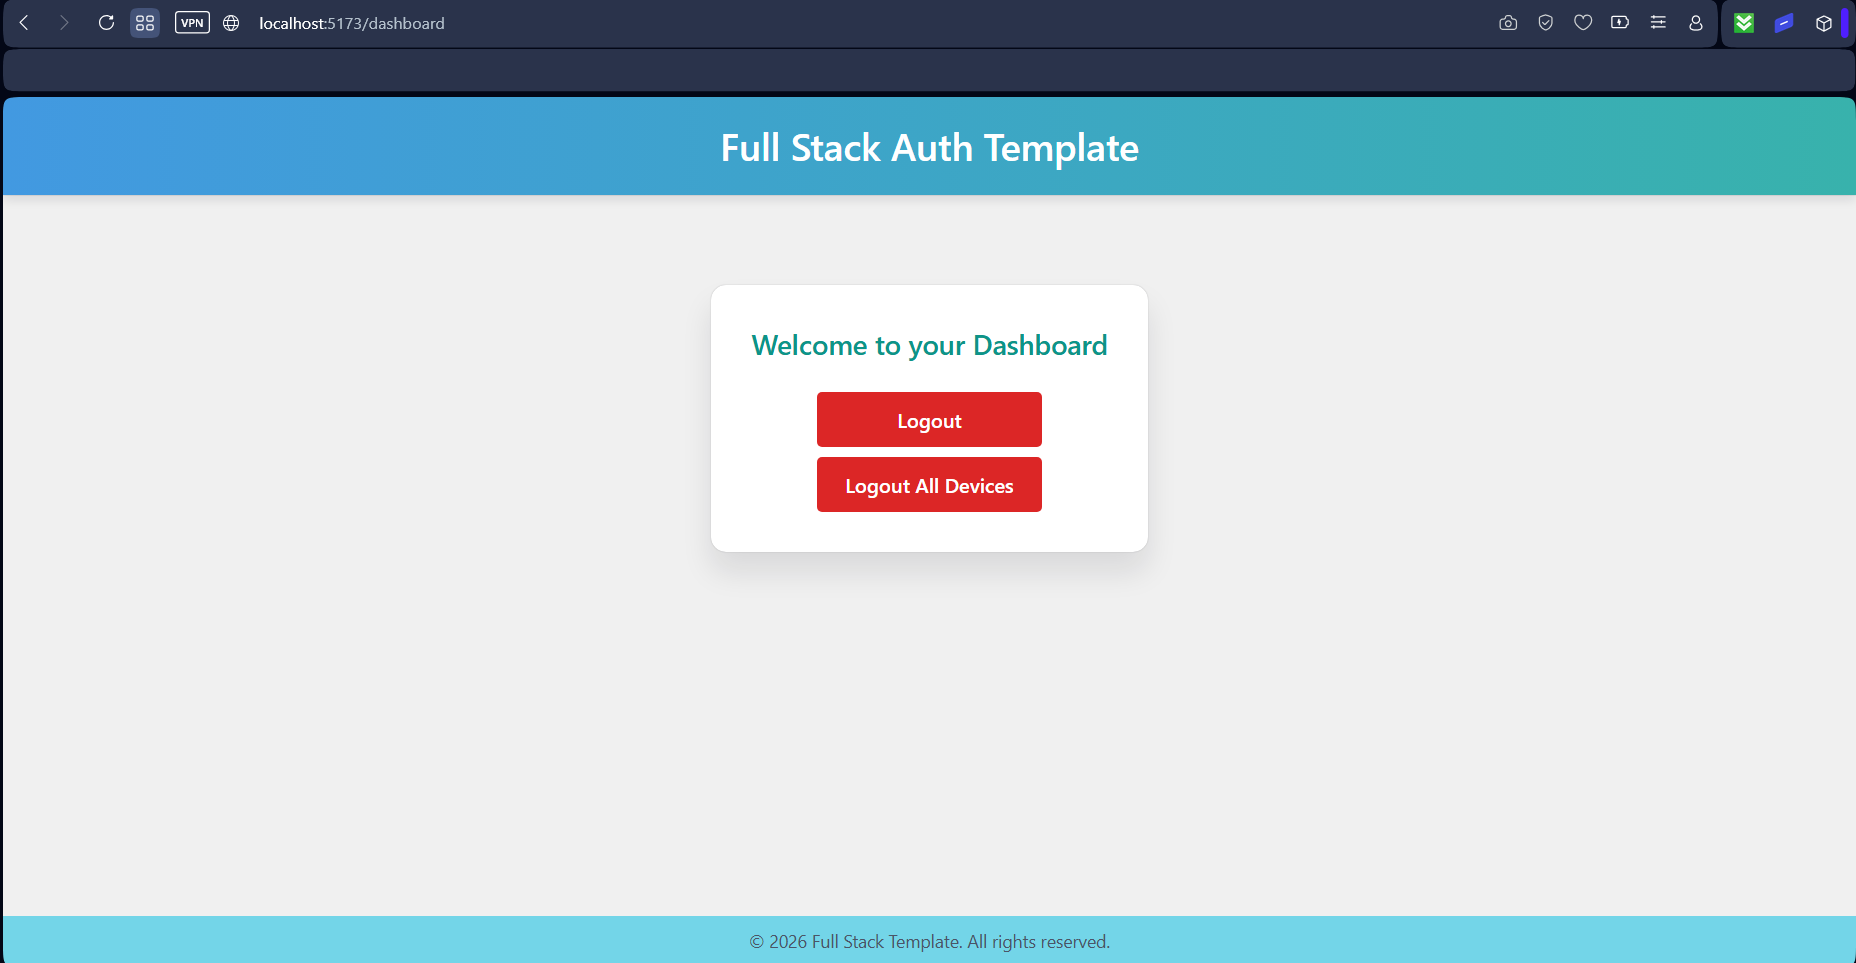
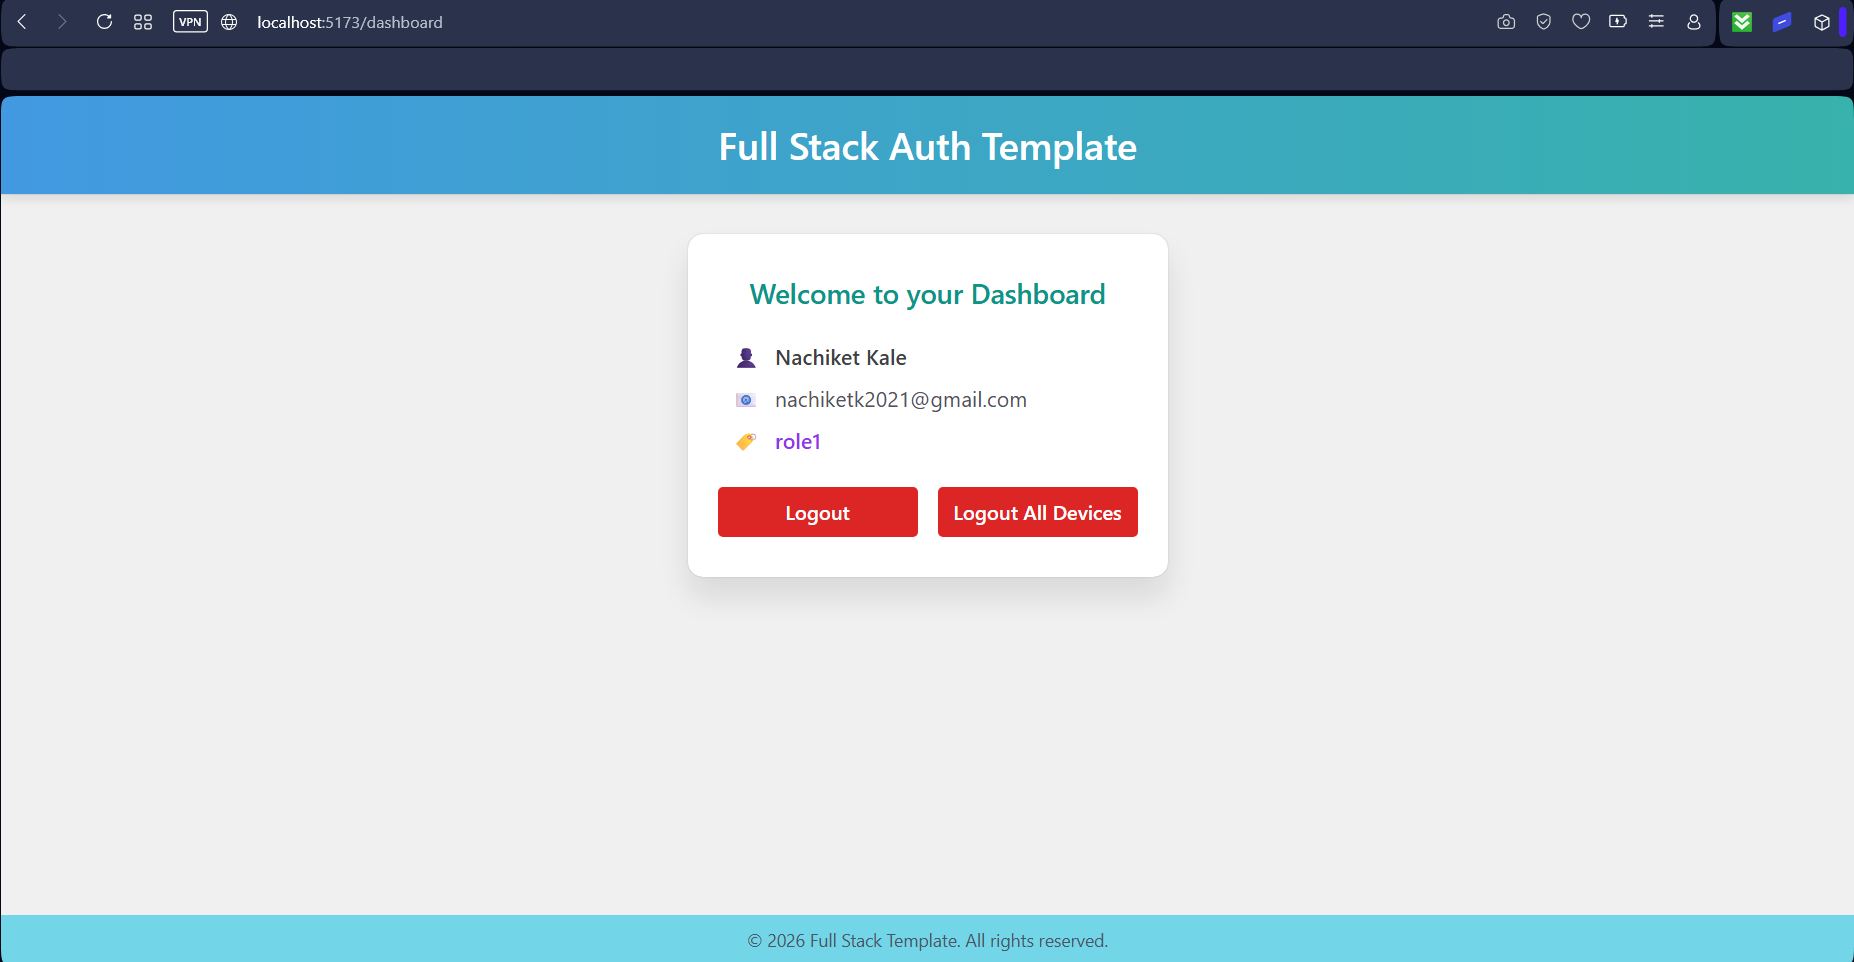
Dashboard page modified to show user details ;Sign up page updated

diff --git a/frontend/src/dashboard/DashboardPage.tsx b/frontend/src/dashboard/DashboardPage.tsx
@@ -1,79 +1,172 @@
 // ---------------------------- External Imports ----------------------------
-// Import React to use JSX/TSX syntax in component
-import React, { useEffect } from "react";
+// React core library and hooks for component lifecycle and state management
+import React, { useEffect, useState } from "react";
 
-// Import Redux hooks
+// Redux hook to dispatch actions to the store
 import { useDispatch } from "react-redux";
 
-// Import Chakra UI components for layout and styling
-import { Box, Heading, Stack, Container } from "@chakra-ui/react";
+// Chakra UI components for layout, styling, and responsive design
+import { Box, Heading, Stack, Container, Text, Spinner, Flex } from "@chakra-ui/react";
 
-// Import LogoutButton container components for single-device and all-device logout
+// ---------------------------- Internal Imports ----------------------------
+// Button component to log out current session
 import LogoutButton from "../auth/logout/LogoutButton";
+
+// Button component to log out all sessions
 import LogoutAllButton from "../auth/logout_all/LogoutAllButton";
 
-// Import actions to clear previous logout messages
+// Redux actions to clear logout states
 import { clearLogoutState } from "../auth/logout/logout_slice";
 import { clearLogoutAllState } from "../auth/logout_all/logout_all_slice";
+
+// API function to fetch current user details
+import { getCurrentUserApi } from "../api/auth_api";
 
 // ---------------------------- DashboardPage Component ----------------------------
 /**
  * DashboardPage
- * A Chakra UI-based user dashboard responsible for:
- * 1. Rendering a responsive centered container
- * 2. Displaying a welcome message
- * 3. Providing logout buttons for current and all sessions
+ * Displays the current user's information and logout options
+ * Methods:
+ *   1. useEffect hook to fetch current user on mount
+ *   2. Conditional rendering of user info, loading spinner, or error messages
  */
 const DashboardPage: React.FC = () => {
-    const dispatch = useDispatch();
+    // ---------------------------- Redux Dispatch ----------------------------
+    const dispatch = useDispatch(); // Step 1: Initialize Redux dispatch
+
+    // ---------------------------- Local State ----------------------------
+    const [user, setUser] = useState<{ name: string; email: string; role: string } | null>(null); 
+    // Step 2a: Store current user info
+    const [loading, setLoading] = useState<boolean>(true); 
+    // Step 2b: Loading indicator while fetching data
+    const [error, setError] = useState<string | null>(null); 
+    // Step 2c: Error message if fetching fails
 
     // ---------------------------- Effects ----------------------------
-    // Clear old logout messages when dashboard mounts
+    /**
+     * useEffect
+     * Input: None
+     * Process:
+     *   1. Clear any previous logout states in Redux
+     *   2. Define async function to fetch user info
+     *       2a. Call API to get current user
+     *       2b. If successful, store user data in state
+     *       2c. If unsuccessful, set error message
+     *       2d. Stop loading after API call
+     *   3. Invoke fetch function
+     * Output: Updates local state with user info or error
+     */
     useEffect(() => {
+        // Step 1: Clear Redux logout states
         dispatch(clearLogoutState());
         dispatch(clearLogoutAllState());
-    }, [dispatch]);
 
-    // Background color
-    const cardBg = "white";
-    const textColor = "gray.700";
+        // Step 2: Async function to fetch user info
+        const fetchUser = async () => {
+            try {
+                // Step 2a: Call API
+                const res = await getCurrentUserApi("Dashboard");
+
+                // Step 2b: If successful, update user state
+                if (res.status === 200 && res.data) {
+                    setUser(res.data);
+                } else {
+                    // Step 2c: If API response not 200, set error
+                    setError("Unable to fetch user details");
+                }
+            } catch (err: any) {
+                // Step 2c: Catch network or API errors
+                setError("Failed to load user details");
+            } finally {
+                // Step 2d: Stop loading indicator
+                setLoading(false);
+            }
+        };
+
+        // Step 3: Call async fetch function
+        fetchUser();
+    }, [dispatch]);
 
     // ---------------------------- Render ----------------------------
     /**
-     * Input: None
+     * Render
+     * Input: Local state (user, loading, error)
      * Process:
-     *   1. Create a centered Chakra Container
-     *   2. Use a Box as a card with padding, rounded corners, and shadow
-     *   3. Display heading text
-     *   4. Render LogoutButton and LogoutAllButton components
-     * Output: Chakra-styled JSX.Element representing the dashboard
+     *   1. Display container with white background and rounded shadow
+     *   2. Show heading for dashboard
+     *   3. Conditionally render:
+     *       3a. Spinner if loading
+     *       3b. Error message if error exists
+     *       3c. User info (name, email, role) if available
+     *       3d. Default message if no user data
+     *   4. Logout buttons in one line
+     * Output: Fully styled dashboard UI
      */
     return (
-        <Container maxW="md" py={10}>
-            {/* Step 1: Dashboard card */}
+        <Container maxW="md"> {/* Step 1: Center container */}
             <Box
-                bg={cardBg}                          // Dynamic background
-                color={textColor}                    // Text color for readability
-                p={8}                                // Inner padding
-                rounded="xl"                         // Rounded corners
-                shadow="xl"                          // Elevation shadow
-                textAlign="center"                   // Center content alignment
+                bg="white"          // Step 1a: Background color
+                color="gray.700"    // Step 1b: Text color
+                p={8}               // Step 1c: Padding
+                rounded="xl"        // Step 1d: Rounded corners
+                shadow="xl"         // Step 1e: Shadow
+                textAlign="center"  // Step 1f: Center text
             >
-                {/* Step 2: Welcome message */}
-                <Heading as="h1" fontSize="22px" mb={6} color="teal.600" >
-                    Welcome to your Dashboard
+                <Heading as="h1" fontSize="22px" mb={6} color="teal.600">
+                    Welcome to your Dashboard {/* Step 2: Heading */}
                 </Heading>
 
-                {/* Step 3: Stack for spacing between buttons */}
-                <Stack>
-                    <LogoutButton />       {/* Logout current device */}
-                    <LogoutAllButton />    {/* Logout all devices */}
-                </Stack>
+                {/* ---------------- User Info ---------------- */}
+                {loading ? (
+                    <Spinner size="lg" color="teal.500" /> // Step 3a: Show spinner while loading
+                ) : error ? (
+                    <Text color="red.500" mb={6}>{error}</Text> // Step 3b: Show error message
+                ) : user ? (
+                    <Stack mb={6} align="flex-start"> {/* Step 3c: Display user info aligned left */}
+                        {/* Name */}
+                        <Flex align="center" justify="flex-start">
+                            <Box w="30px" textAlign="center" mr={2} color="teal.600"> {/* Fixed icon width */}
+                                👤
+                            </Box>
+                            <Text fontSize="17px" fontWeight="semibold">
+                                {user.name}
+                            </Text>
+                        </Flex>
+
+                        {/* Email */}
+                        <Flex align="center" justify="flex-start">
+                            <Box w="30px" textAlign="center" mr={2} color="blue.500"> {/* Fixed icon width */}
+                                📧
+                            </Box>
+                            <Text fontSize="17px" color="gray.600">
+                                {user.email}
+                            </Text>
+                        </Flex>
+
+                        {/* Role */}
+                        <Flex align="center" justify="flex-start">
+                            <Box w="30px" textAlign="center" mr={2} color="purple.500"> {/* Fixed icon width */}
+                                🏷
+                            </Box>
+                            <Text fontSize="17px" color="purple.600" fontWeight="medium">
+                                {user.role}
+                            </Text>
+                        </Flex>
+                    </Stack>
+                ) : (
+                    <Text color="gray.500" mb={6}>No user data available</Text> // Step 3d: Default message
+                )}
+
+                {/* ---------------- Logout Buttons ---------------- */}
+                <Flex justify="center" gap={4}> {/* Step 4: Logout buttons in one line */}
+                    <LogoutButton />
+                    <LogoutAllButton />
+                </Flex>
             </Box>
         </Container>
     );
 };
 
 // ---------------------------- Export ----------------------------
-// Export DashboardPage component as default for routing
+// Export DashboardPage component as default for route rendering
 export default DashboardPage;

diff --git a/frontend/src/auth/signup/SignupForm.tsx b/frontend/src/auth/signup/SignupForm.tsx
@@ -207,15 +207,46 @@ const SignupForm: React.FC = () => {
             {successMessage && <Text color="green.500" fontSize="17px">{successMessage}</Text>}
 
             {/* Action Buttons */}
-            <Stack direction="row">
-                <Button type="submit" bg="teal.600" _hover={{ bg: "teal.700" }} color="white">
-                    Signup
-                </Button>
-                <Button type="button" onClick={handleClear}
-                        bg="gray.300" _hover={{ bg: "gray.400" }} color="gray.700">
-                    Clear
-                </Button>
-            </Stack>
+            <Box display="flex" alignItems="center">
+                {/* Left side: Signup and Clear buttons */}
+                <Stack direction="row">
+                    <Button
+                        type="submit"
+                        bg="teal.600"
+                        _hover={{ bg: "teal.700" }}
+                        color="white"
+                    >
+                        Signup
+                    </Button>
+
+                    <Button
+                        type="button"
+                        onClick={handleClear}
+                        bg="gray.300"
+                        _hover={{ bg: "gray.400" }}
+                        color="gray.700"
+                    >
+                        Clear
+                    </Button>
+                </Stack>
+
+                {/* Right side: “Already have an account?” + Login button */}
+                <Box display="flex" alignItems="center" ml="auto">
+                    <Text mr={2} color="gray.700" fontSize="16px">
+                        Already have an account?
+                    </Text>
+                    <Button
+                        type="button"
+                        bg="blue.600"
+                        _hover={{ bg: "blue.700" }}
+                        color="white"
+                        size="sm"
+                        onClick={() => (window.location.href = "/login")}
+                    >
+                        Login
+                    </Button>
+                </Box>
+            </Box>
         </Stack>
     );
 };

diff --git a/frontend/src/auth/logout_all/LogoutAllButtonComponent.tsx b/frontend/src/auth/logout_all/LogoutAllButtonComponent.tsx
@@ -40,7 +40,8 @@ const LogoutAllButtonComponent: React.FC<LogoutAllButtonComponentProps> = ({
                 _hover={{ bg: "red.700" }}                // Darker hover effect
                 color="white"                             // White text for contrast
                 size="lg"                                 // Large button for emphasis
-                w="180px"
+                w="160px"
+                h="40px"
             >
                 Logout All Devices
             </Button>

diff --git a/frontend/src/auth/logout/LogoutButtonComponent.tsx b/frontend/src/auth/logout/LogoutButtonComponent.tsx
@@ -40,7 +40,8 @@ const LogoutButtonComponent: React.FC<LogoutButtonComponentProps> = ({
                 _hover={{ bg: "red.700" }}
                 color="white"
                 size="lg"                                  // Large button for emphasis
-                w="180px"
+                w="160px"
+                h="40px"
             >
                 Logout
             </Button>
